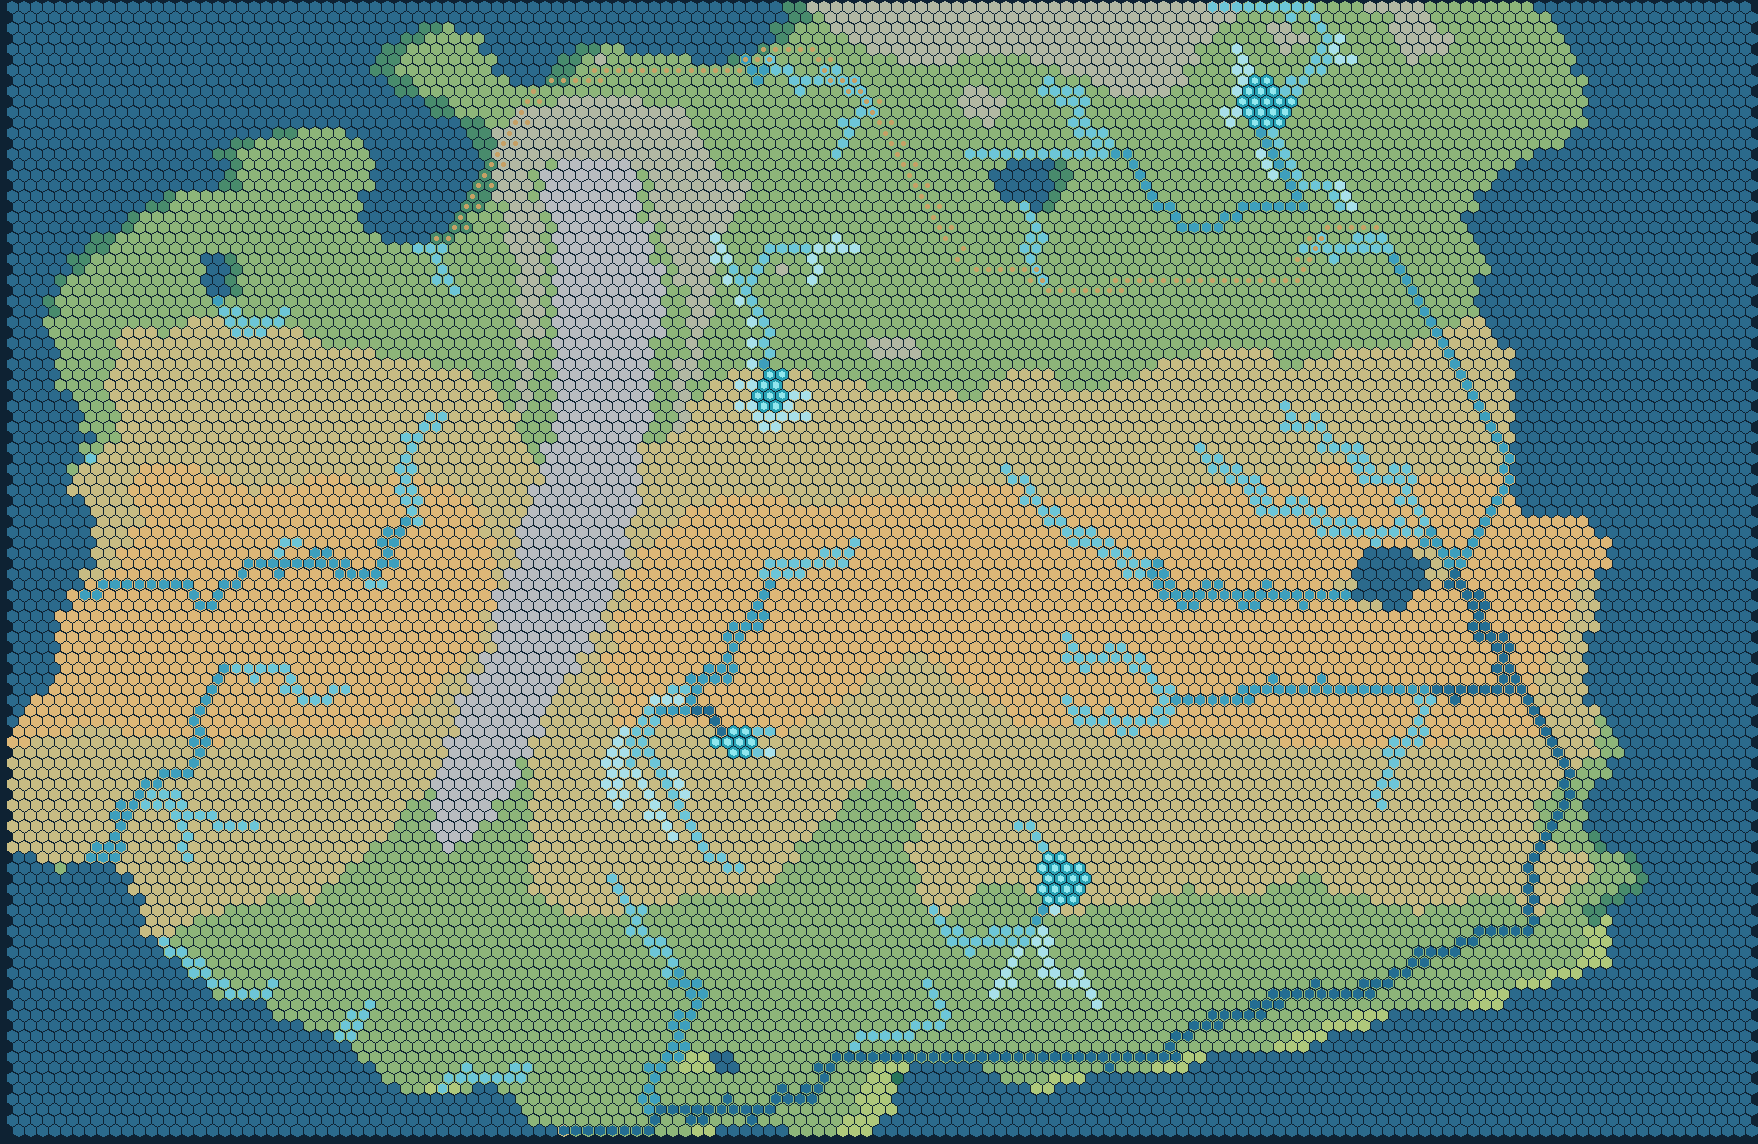
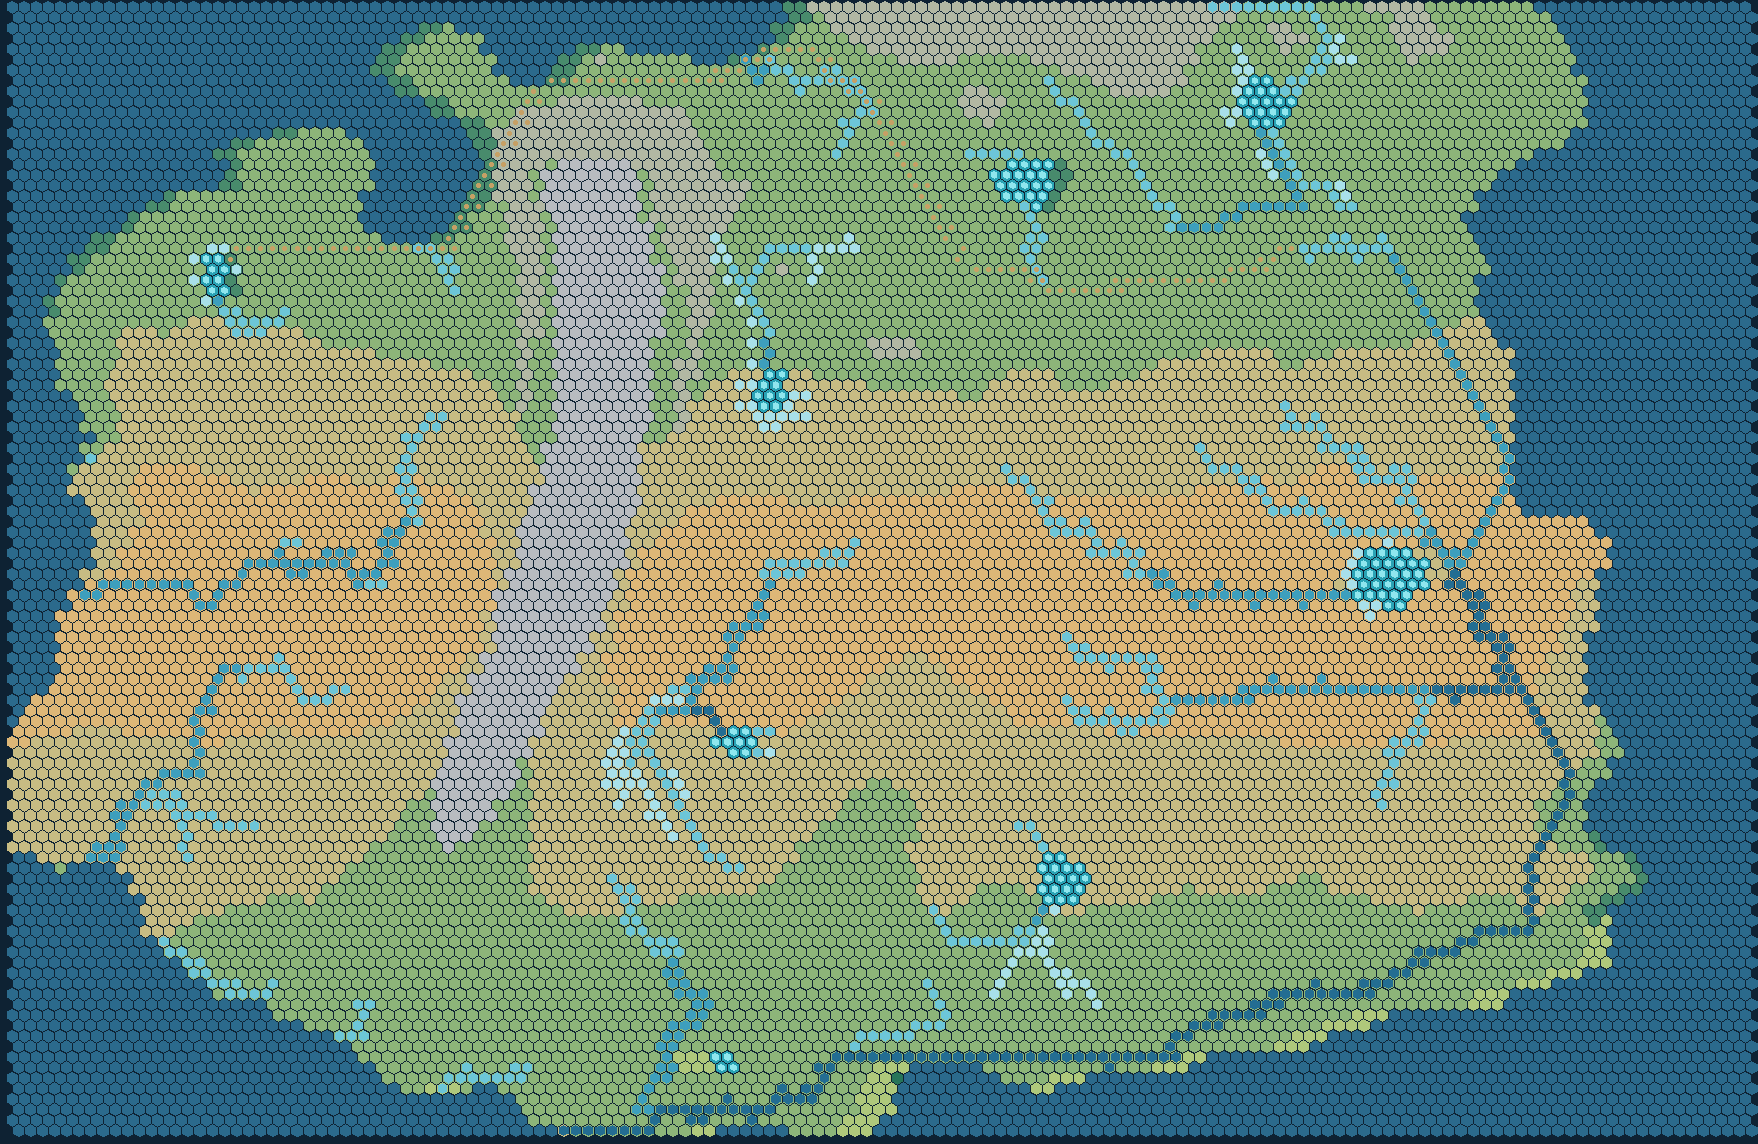
style(map): unify water color and recolor roads
- render rivers, lakes, and the ocean with one seawater color instead of depth ramps
- classify enclosed water bodies as inland lakes so they no longer appear as dark holes
- switch roads to terracotta and bridges to blue-gray for clearer contrast

diff --git a/dashboard.html b/dashboard.html
@@ -1013,14 +1013,14 @@ function drawRoadNetwork(scale,strong=false){
   for(const item of visible){
     const {cell,tile,bridge}=item,x=cx([cell.col,cell.row]),y=cy([cell.col,cell.row]);
     hexPath(x,y,.84);
-    ctx.fillStyle=bridge?'#7d8f98':(strong?'#e0bd7b':'#c9a46b');ctx.fill();
-    ctx.strokeStyle=bridge?'#263a44':'#3a2a18';
+    ctx.fillStyle=bridge?bridgeColor():roadColor(strong);ctx.fill();
+    ctx.strokeStyle=bridge?'#263a44':'#2e1d14';
     ctx.lineWidth=Math.max(.03,1.3/scale);ctx.stroke();
   }
   for(const item of visible){
     const {cell,bridge}=item,x=cx([cell.col,cell.row]),y=cy([cell.col,cell.row]);
     hexPath(x,y,.84);
-    ctx.fillStyle=bridge?'#7d8f98':(strong?'#e0bd7b':'#c9a46b');ctx.fill();
+    ctx.fillStyle=bridge?bridgeColor():roadColor(strong);ctx.fill();
   }
 }
 function settleConditions(tile){
@@ -1256,6 +1256,9 @@ function riverDepthColor(depth){
   return stops[stops.length-1][1];
 }
 const DEFAULT_LAKE_STOPS=[[1,'#93e4e8'],[4,'#5bc6d1'],[8,'#319fb2'],[12,'#1c6b80']];
+function waterColor(){return WORLD?.rendering?.water_color||'#2f7d9c';}
+function roadColor(strong=false){return strong?(WORLD?.rendering?.road_strong_color||'#c07a55'):(WORLD?.rendering?.road_color||'#a56245');}
+function bridgeColor(){return WORLD?.rendering?.bridge_color||'#6f7f86';}
 function colorStopsColor(depth, stops){
   const sorted=stops.map(stop=>[Number(stop[0]),stop[1]]).sort((a,b)=>a[0]-b[0]);
   if(depth<=sorted[0][0])return sorted[0][1];
@@ -1286,33 +1289,27 @@ function drawLakeCells(scale){
     if(!tile)continue;
     const x=cx([cell.tile.col,cell.tile.row]),y=cy([cell.tile.col,cell.tile.row]);
     hexPath(x,y,.985);
-    ctx.fillStyle=lakeDepthColor(Number(cell.depth_m||0));
+    ctx.fillStyle=waterColor();
     ctx.fill();
-    ctx.strokeStyle='rgba(8,42,54,.28)';
-    ctx.lineWidth=Math.max(.03,1.2/scale);ctx.stroke();
   }
   return true;
 }
 function drawRiverCells(scale){
   const cells=WORLD?.river_cells;
   if(!Array.isArray(cells)||!cells.length)return false;
-  const endorheicTint=hexToRgb(WORLD?.rendering?.endorheic_tint||'#63c9b4');
   const visible=cells.map(cell=>{
     const tile=getTile(cell.tile.col,cell.tile.row);
-    if(!tile||!tile[2])return null;
-    let color=riverDepthColor(Number(cell.depth_m||0));
-    if(cell.kind==='endorheic')color=blendRgbColor(color,endorheicTint,.28);
-    return {cell,tile,color};
+    return tile&&tile[2]?{cell,tile}:null;
   }).filter(Boolean);
   for(const item of visible){
     hexPath(cx([item.cell.tile.col,item.cell.tile.row]),cy([item.cell.tile.col,item.cell.tile.row]),.97);
-    ctx.fillStyle=item.color;ctx.fill();
+    ctx.fillStyle=waterColor();ctx.fill();
     ctx.strokeStyle='rgba(4,17,24,.72)';
     ctx.lineWidth=Math.max(.03,1.5/scale);ctx.stroke();
   }
   for(const item of visible){
     hexPath(cx([item.cell.tile.col,item.cell.tile.row]),cy([item.cell.tile.col,item.cell.tile.row]),.985);
-    ctx.fillStyle=item.color;ctx.fill();
+    ctx.fillStyle=waterColor();ctx.fill();
   }
   return true;
 }
@@ -1465,13 +1462,15 @@ function render(force=false){
 function updateMapLegend(){
   const hasEndorheic=!!WORLD?.river_cells?.some(cell=>cell.kind==='endorheic');
   const hasLakes=!!WORLD?.lake_cells?.length;
+  const hasWater=!!(WORLD?.river_cells?.length||hasLakes);
+  const water=waterColor(), road=roadColor();
   const items={
-    satellite:[['森林','#487754'],['草原','#7c9e69'],['干旱','#a49169'],['高山','#b0b4a8'],['海洋','#0d3346'],...(WORLD?.river_cells?.length?[['浅水','#83cfdd'],['深水','#153e57']]:[['河流','#4f9fba']]),...(hasEndorheic?[['内流河','#63c9b4']]:[]),...(hasLakes?[['内流湖','#54c3cf']]:[]),['道路','#c9a46b'],...(WORLD?WORLD.polities.map(p=>[p.name+'领土',p.color]):[])],
+    satellite:[['森林','#487754'],['草原','#7c9e69'],['干旱','#a49169'],['高山','#b0b4a8'],['海洋','#0d3346'],...(hasWater?[['河流 / 湖泊',water]]:[]),...(hasEndorheic?[['内流河 / 内流湖',water]]:[]),['道路',road],...(WORLD?WORLD.polities.map(p=>[p.name+'领土',p.color]):[])],
     political:WORLD?WORLD.polities.map(p=>[p.name,p.color]):[],
-    terrain:[['低地','#b8cda8'],['丘陵','#beb984'],['高地','#997461'],['山脊','#e8e8dc'],['海洋','#17465c'],...(hasLakes?[['湖泊','#54c3cf']]:[])],
-    rain:[['少雨','#cebe93'],['中等','#6e9e91'],['多雨','#1f5d7f'],...(hasLakes?[['湖泊','#54c3cf']]:[])],
+    terrain:[['低地','#b8cda8'],['丘陵','#beb984'],['高地','#997461'],['山脊','#e8e8dc'],['海洋','#17465c'],...(hasWater?[['湖泊',water]]:[])],
+    rain:[['少雨','#cebe93'],['中等','#6e9e91'],['多雨','#1f5d7f'],...(hasWater?[['湖泊',water]]:[])],
     resources:[['粮食','#d8c165'],['金属','#b9c5ce'],['木材','#56a276'],['石料','#b6a99d'],['牧草','#b6b77c']],
-    routes:[['道路','#e5c07b'],['河流','#5babc7'],...(hasEndorheic?[['内流河','#63c9b4']]:[]),...(hasLakes?[['湖泊','#54c3cf']]:[]),['贸易联系','#d4a856']]
+    routes:[['道路',road],['河流 / 湖泊',water],...(hasEndorheic?[['内流河 / 内流湖',water]]:[]),['贸易联系','#d4a856']]
   };
   $('mapLegend').innerHTML=(items[mapMode]||[]).map(([name,color])=>`<span><i style="background:${color}"></i>${esc(name)}</span>`).join('');
 }

diff --git a/mapgen_v2.py b/mapgen_v2.py
@@ -32,6 +32,8 @@ CONTINUOUS_RADIUS_KM = V2_RADIUS_KM / CONTINUOUS_SCALE
 CONTINUOUS_CELL_AREA_KM2 = (3 * math.sqrt(3) / 2) * CONTINUOUS_RADIUS_KM ** 2
 CONTINUOUS_RIVER_MIN_BASIN = max(1, round(17 * V1_CELL_AREA_KM2 / CONTINUOUS_CELL_AREA_KM2))
 V2_RIVER_MIN_BASIN = max(1, round(17 * V1_CELL_AREA_KM2 / V2_CELL_AREA_KM2))
+WATER_COLOR = "#2f7d9c"
+WATER_RGB = (47, 125, 156)
 DEPTH_STOPS = [
     [0.3, "#b9e6ed"],
     [1.2, "#83cfdd"],
@@ -491,9 +493,7 @@ def _terrain_texture(
     for y in range(height):
         for x in range(width):
             if not land[y, x]:
-                depth = np.clip(-float(elev[y, x]) / 1400.0, 0, 1)
-                base = np.array([35, 89, 112], dtype=np.float32) * (1 - depth) + np.array([7, 30, 45], dtype=np.float32) * depth
-                rgb[y, x] = base
+                rgb[y, x] = np.array(WATER_RGB, dtype=np.float32)
                 continue
             base = np.array(palette.get(str(biome[y, x]), palette["grassland"]), dtype=np.float32)
             dry = 1 - min(1.0, float(precip[y, x]) / 1200.0)
@@ -579,6 +579,30 @@ def _generate_candidate(seed: int, countries: list[dict[str, Any]]) -> dict[str,
         for y in range(V2_HEIGHT)
     ])
     lake_mask, lakes = _find_inland_lakes(v2_land, v2_elev, polity_p, V2_WIDTH, V2_HEIGHT)
+    for body in _enclosed_water_bodies(v2_land, V2_WIDTH, V2_HEIGHT):
+        unassigned = [(x, y) for x, y in body if not lake_mask[y, x]]
+        if len(unassigned) < 3:
+            continue
+        body = unassigned
+        levels = [float(v2_elev[y, x]) for x, y in body]
+        level = max(levels) + .3
+        cells = [[x, y] for x, y in sorted(body, key=lambda item: (item[1], item[0]))]
+        lakes.append({
+            "id": f"LK{len(lakes) + 1:02d}",
+            "center": [
+                round(sum(x for x, _ in body) / len(body)),
+                round(sum(y for _, y in body) / len(body)),
+            ],
+            "lowest": [min(body, key=lambda item: v2_elev[item[1], item[0]])[0],
+                       min(body, key=lambda item: v2_elev[item[1], item[0]])[1]],
+            "level_m": round(level, 1),
+            "depth_m": round(max(1.2, min(12.0, level - min(levels) + .8)), 2),
+            "spill_height_m": 110.0,
+            "origin": "enclosed",
+            "cells": cells,
+        })
+        for x, y in body:
+            lake_mask[y, x] = True
     hydro_parent, by_lake, _ = _endorheic_catchments(
         v2_land, v2_elev, lake_mask, lakes, v2_parent, V2_WIDTH, V2_HEIGHT
     )
@@ -754,7 +778,7 @@ def _generate_candidate(seed: int, countries: list[dict[str, Any]]) -> dict[str,
         },
         "world_summary": {
             "land_hexes": int(polity_land.sum()),
-            "ocean_hexes": int((~v2_land).sum()),
+            "ocean_hexes": int((~v2_land & ~lake_mask).sum()),
             "lake_hexes": int(lake_mask.sum()),
             "lake_count": len(lakes),
             "land_area_km2": round(float(polity_land.sum() * V2_CELL_AREA_KM2)),
@@ -780,16 +804,18 @@ def _generate_candidate(seed: int, countries: list[dict[str, Any]]) -> dict[str,
         },
         "rendering": {
             "river_depth_stops": DEPTH_STOPS,
+            "water_color": WATER_COLOR,
             "lake_depth_stops": [
                 [1.0, "#93e4e8"],
                 [4.0, "#5bc6d1"],
                 [8.0, "#319fb2"],
                 [12.0, "#1c6b80"],
             ],
-            "lake_color": "#4fc0cd",
-            "endorheic_tint": "#63c9b4",
-            "road_color": "#c6a065",
-            "bridge_color": "#88949b",
+            "lake_color": WATER_COLOR,
+            "endorheic_tint": WATER_COLOR,
+            "road_color": "#a56245",
+            "road_strong_color": "#c07a55",
+            "bridge_color": "#6f7f86",
         },
         "polities": polities,
         "tiles": tiles,
@@ -801,6 +827,37 @@ def _generate_candidate(seed: int, countries: list[dict[str, Any]]) -> dict[str,
     }
     validate_v2(world)
     return world
+
+
+def _enclosed_water_bodies(
+    land: np.ndarray,
+    width: int,
+    height: int,
+    minimum_cells: int = 3,
+) -> list[list[tuple[int, int]]]:
+    """Water components that do not touch the map border are inland water."""
+    water = ~land
+    seen = np.zeros_like(land, dtype=bool)
+    bodies = []
+    for y, x in np.argwhere(water):
+        if seen[y, x]:
+            continue
+        stack = [(int(x), int(y))]
+        seen[y, x] = True
+        cells = []
+        touches_border = False
+        while stack:
+            cx, cy = stack.pop()
+            cells.append((cx, cy))
+            if cx in (0, width - 1) or cy in (0, height - 1):
+                touches_border = True
+            for nx, ny in worldgen.neighbors(cx, cy, width, height):
+                if water[ny, nx] and not seen[ny, nx]:
+                    seen[ny, nx] = True
+                    stack.append((nx, ny))
+        if not touches_border and len(cells) >= minimum_cells:
+            bodies.append(cells)
+    return bodies
 
 
 def _find_inland_lakes(

diff --git a/tests/test_dashboard_ui.py b/tests/test_dashboard_ui.py
@@ -66,7 +66,8 @@ def test_v2_lakes_and_endorheic_rivers_are_wired():
     assert "function drawLakeCells(" in DASHBOARD
     assert "lakeDepthColor" in DASHBOARD
     assert "WORLD?.lake_cells" in DASHBOARD
-    assert "endorheic_tint" in DASHBOARD
+    assert "water_color" in DASHBOARD
+    assert "waterColor" in DASHBOARD
     assert "cell.kind==='endorheic'" in DASHBOARD
     assert "内流湖" in DASHBOARD
     assert "内流河" in DASHBOARD

diff --git a/README.md b/README.md
@@ -155,11 +155,11 @@ HTTP 接口：
 ## v0.33 水文重置：蜿蜒河道、内流河与内湖
 
 - 河网不再直接使用汇水面积掩膜。生成器按支流—干流分段追踪河段，再用平滑曲线和正弦横向偏移生成连续蜿蜒的六边形河道；河段端点与汇流点固定，保证连通。
-- 每个河段被限制在自身河谷走廊内，并与已生成河道保持间距，避免整片水域糊成一团；河道仍以占格实体存在，深度按汇水面积着色。
-- 新增封闭内流盆地：在地图内部寻找洼地，生成 3–4 个内湖（`lake_cells`），湖面按湖底高程得到 1–12 m 的深度梯度。
+- 每个河段被限制在自身河谷走廊内，并与已生成河道保持间距，避免整片水域糊成一团；河道仍以占格实体存在，水深数据保留，但渲染统一为海水蓝。
+- 新增封闭内流盆地：在地图内部寻找洼地生成内陆湖，并把连续地形中所有不连通外海的封闭水域一并登记为内湖（`lake_cells`）；本次审计世界共 8 个湖。
 - 内流河：对每个内湖做局部优先洪泛，划出封闭集水区，河流在湖岸终止。`river_cells.kind = endorheic` 表示内流河，`terminal_lake_id` 指向注入的内湖；外流河为 `exorheic`。
-- `/api/world` 新增 `lake_cells` 和地块湖标记；卫星/政治/地形/交通图层绘制深度着色湖泊，内流河带轻微青绿色调。地块详情显示“内流湖”“内流河 · 注入 LKxx”、水深、覆盖率与流域面积；建城条件排除湖泊。
-- 审计世界 40004：4 个内湖、51 个湖格、959 个河格（296 个内流河格、12 个内流网络）、122 个道路格；365 天 Mock 模拟通过，所有城心均为干燥陆地；99 项 pytest 全绿。
+- `/api/world` 新增 `lake_cells` 和地块湖标记；卫星/政治/地形/交通图层把河流与湖泊统一绘制为海水蓝，不再按水深分色；水深仍保留在地块详情中。地块详情显示“内流湖”“内流河 · 注入 LKxx”、覆盖率与流域面积；建城条件排除湖泊。道路改为陶土红棕色，桥梁为青灰色，与水域和草地形成更清楚的区分。
+- 审计世界 40004：8 个内湖、111 个湖格、948 个河格（362 个内流河格、22 个内流网络）、132 个道路格；365 天 Mock 模拟通过，所有城心均为干燥陆地；99 项 pytest 全绿。
 
 ## v0.32 真实地形 + 细六边形地图
 

diff --git a/PROJECT_EOS_DEVELOPMENT_REPORT.md b/PROJECT_EOS_DEVELOPMENT_REPORT.md
@@ -251,10 +251,10 @@ AgentScheduler ── deepcopy(observation) ──> HeuristicAgent / OpenAICompa
 
 - 河流不再直接取“汇水面积 ≥ 阈值”的掩膜。生成器先把河网拆成支流—干流河段，再对每段生成平滑曲线和正弦横向偏移，最后量化为六邻接的河格；端点与汇流点固定，保证河网连通。
 - 每段弯曲被限制在自身河谷走廊内，并为其他河道预留间距，避免多条河段叠成一片宽水面；主河道维持约一格宽，弯道在 1–2 格范围内摆动。
-- 湖泊来自地图内部封闭洼地：每个湖 8–17 格，选择时避开海岸和地图边缘；湖面高程按洼地最低点与湖岸确定，`lake_cells.depth_m` 给出 1–12 m 的深度梯度。
+- 湖泊来自两处：地图内部封闭洼地生成 4–17 格的洼地湖，连续地形中不连通外海的封闭水域也登记为内湖（4–29 格）；湖面高程按洼地/水域最低点与湖岸确定，`lake_cells.depth_m` 保留 1–12 m 的水深数据。
 - 内流河由局部优先洪泛生成：湖泊周围划出封闭集水区，河流在湖岸终止，`kind=endorheic`、`terminal_lake_id=LKxx`；其他河流为 `exorheic`，最终入海。
-- UI 绘制湖泊深度色阶；内流河叠加青绿色调；地块详情显示“内流湖”“内流河 · 注入 LKxx”、水深、覆盖率、流域面积；建城条件排除湖格。
-- 审计世界 40004：4 个内湖、51 个湖格、959 个河格（296 个内流河格、12 个内流网络）、122 个道路格。365 天 Mock 模拟通过，城心全部为干地；99 项 pytest 全绿。
+- UI 把河流与湖泊统一绘制为海水蓝，不再按水深分色；地块详情仍显示“内流湖”“内流河 · 注入 LKxx”、水深、覆盖率、流域面积；建城条件排除湖格。道路改为陶土红棕色，桥梁为青灰色。
+- 审计世界 40004：8 个内湖、111 个湖格、948 个河格（362 个内流河格、22 个内流网络）、132 个道路格。365 天 Mock 模拟通过，城心全部为干地；99 项 pytest 全绿。
 
 ![蜿蜒河网、内流湖与道路](docs/report_assets/ui_v2_hydrology.png)
 

diff --git a/DEVELOPER_MANUAL.md b/DEVELOPER_MANUAL.md
@@ -1064,7 +1064,7 @@ POST /api/agents/budget
 - 图层：卫星、政治、海拔、降水、资源、交通。
 - 卫星图层叠加所有国家的领土色与边界；v2 世界会先绘制 576×432 连续地形纹理，再叠加 144×108 六边形网格。政治图层显示更强的国家染色。
 - 河流由 `buildRiverChains()` 按下游关系构建从河源到河口的连续链，`sampleRiver()` 用 Catmull-Rom 采样并加入低频横向摆动，`drawRiverNetwork()` 分层绘制河岸、水体和细高光；河宽从源头向下游渐宽。
-- v2 河流按 `river_cells.depth_m` 填充河格，颜色随水深变深；内流河额外叠加轻微青绿色调。湖泊按 `lake_cells.depth_m` 绘制深度梯度。道路按 `road_cells` 填充占格道路/桥梁，不再绘制中心线。v1 世界仍回退旧的弯曲河道和道路线稿。
+- v2 河流与湖泊统一使用 `rendering.water_color`（海水蓝）填充，不再按 `depth_m` 分色；深度、覆盖率与流域仍保留在数据与地块详情中。道路按 `road_cells` 填充陶土红棕色道路格、青灰色桥梁格，不再绘制中心线；颜色由 `road_color/road_strong_color/bridge_color` 驱动。v1 世界仍回退旧的弯曲河道和道路线稿。
 - `shortestLandPath` 必须使用 `landNeighbors`（只返回陆地邻格）；不要与全局 `hexNeighbors(col,row)` 混用，否则道路寻路会全部失败。
 - 国家颜色来自世界 polities；城市、设施图标、道路、施工进度环叠加。
 - 设施图标通过 `BUILD_ICON` 映射到 `/assets/icons/*.png`；图标为透明背景 320×320。
